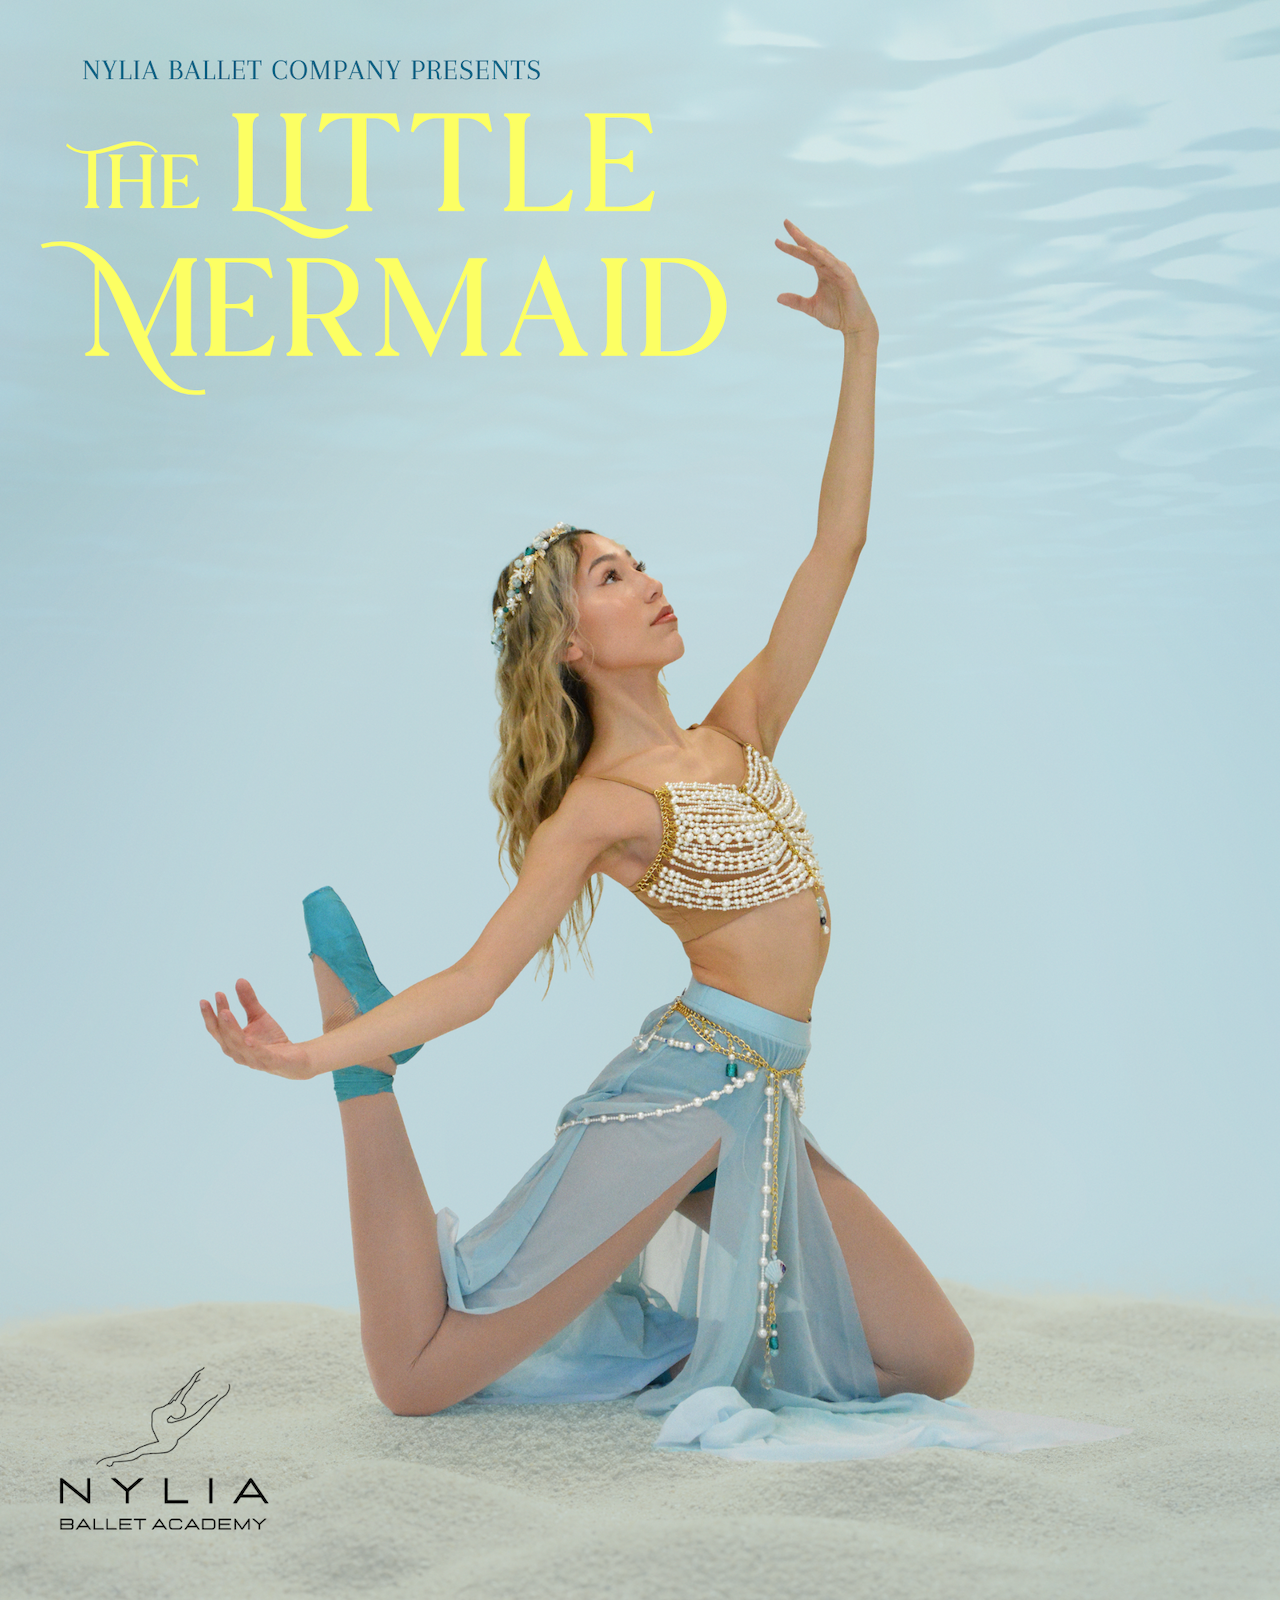
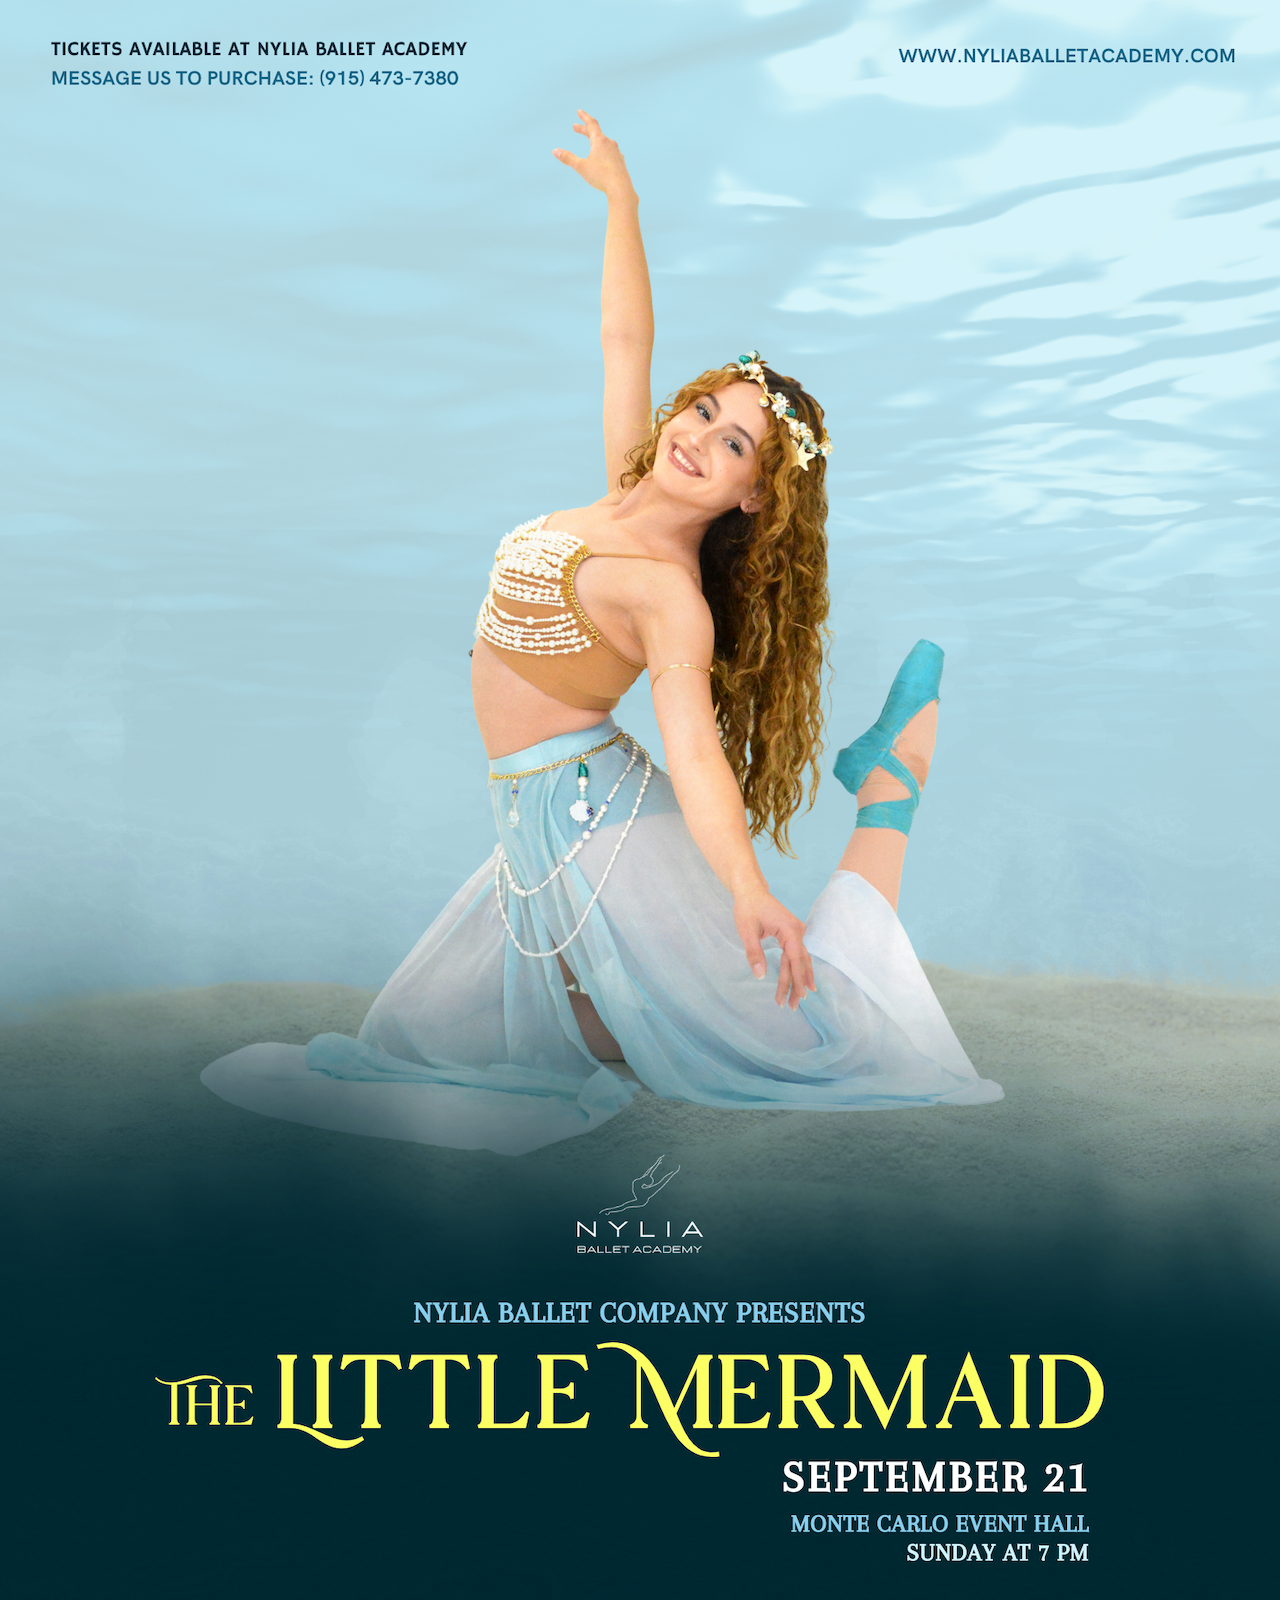
udpate ticket sales for little mermaid

diff --git a/src/components/performances/TheLittleMermaid2025.js b/src/components/performances/TheLittleMermaid2025.js
@@ -42,8 +42,8 @@ function TheLittleMermaid2025() {
   ];
 
   const auditionDate = "Sunday, JUNE 8, 2025";
-  const perfSect2ButtonLink =
-    "https://www.ticketmaster.com/nylia-ballet-company-the-little-mermaid-el-paso-texas-09-20-2025/event/0C0062F8C11D2740"; //TODO - Auditions Registry Link
+  // const perfSect2ButtonLink =
+  // ("https://www.ticketmaster.com/nylia-ballet-company-the-little-mermaid-el-paso-texas-09-20-2025/event/0C0062F8C11D2740"); //TODO - Auditions Registry Link
   const perfSect2Images = {
     sm: perfSect2ImgSm,
     md: perfSect2ImgMd,
@@ -59,7 +59,8 @@ function TheLittleMermaid2025() {
         showDate={showDate}
         headerDescription={headerDescription}
         auditionDate={auditionDate}
-        perfSect2ButtonLink={perfSect2ButtonLink}
+        // perfSect2ButtonLink={perfSect2ButtonLink}
+        // TODO: GO BACK AND UPDATE "RESERVE YOUR SEAT" LINK BACK. SINCE SELLING AT ACADEMY WILL TEMP UPDATE
         perfSect2Images={perfSect2Images}
         handbookLink={handbook}
         importantLinks={importantLinks}

diff --git a/src/components/performances/templates/PerfSect2.js b/src/components/performances/templates/PerfSect2.js
@@ -44,7 +44,8 @@ function PerfSect2({
     status === "PAST"
       ? `${showName} PROGRAM`
       : status === "ACTIVE"
-      ? `Reserve Your Seat`
+      ? // ? `Reserve Your Seat`
+        `purchase your tickets at nylia ballet academy`
       : status === "UPCOMING"
       ? "Register for auditions"
       : "";

diff --git a/src/components/UpcomingEvents.js b/src/components/UpcomingEvents.js
@@ -188,7 +188,7 @@ function UpcomingEvents() {
       isLink: true,
     },
     {
-      date: "09/20/2025",
+      date: "09/21/2025",
       event: "The Little Mermaid",
       note: "THE LITTLE MERMAID",
       link: "/performances/thelittlemermaid2025",
